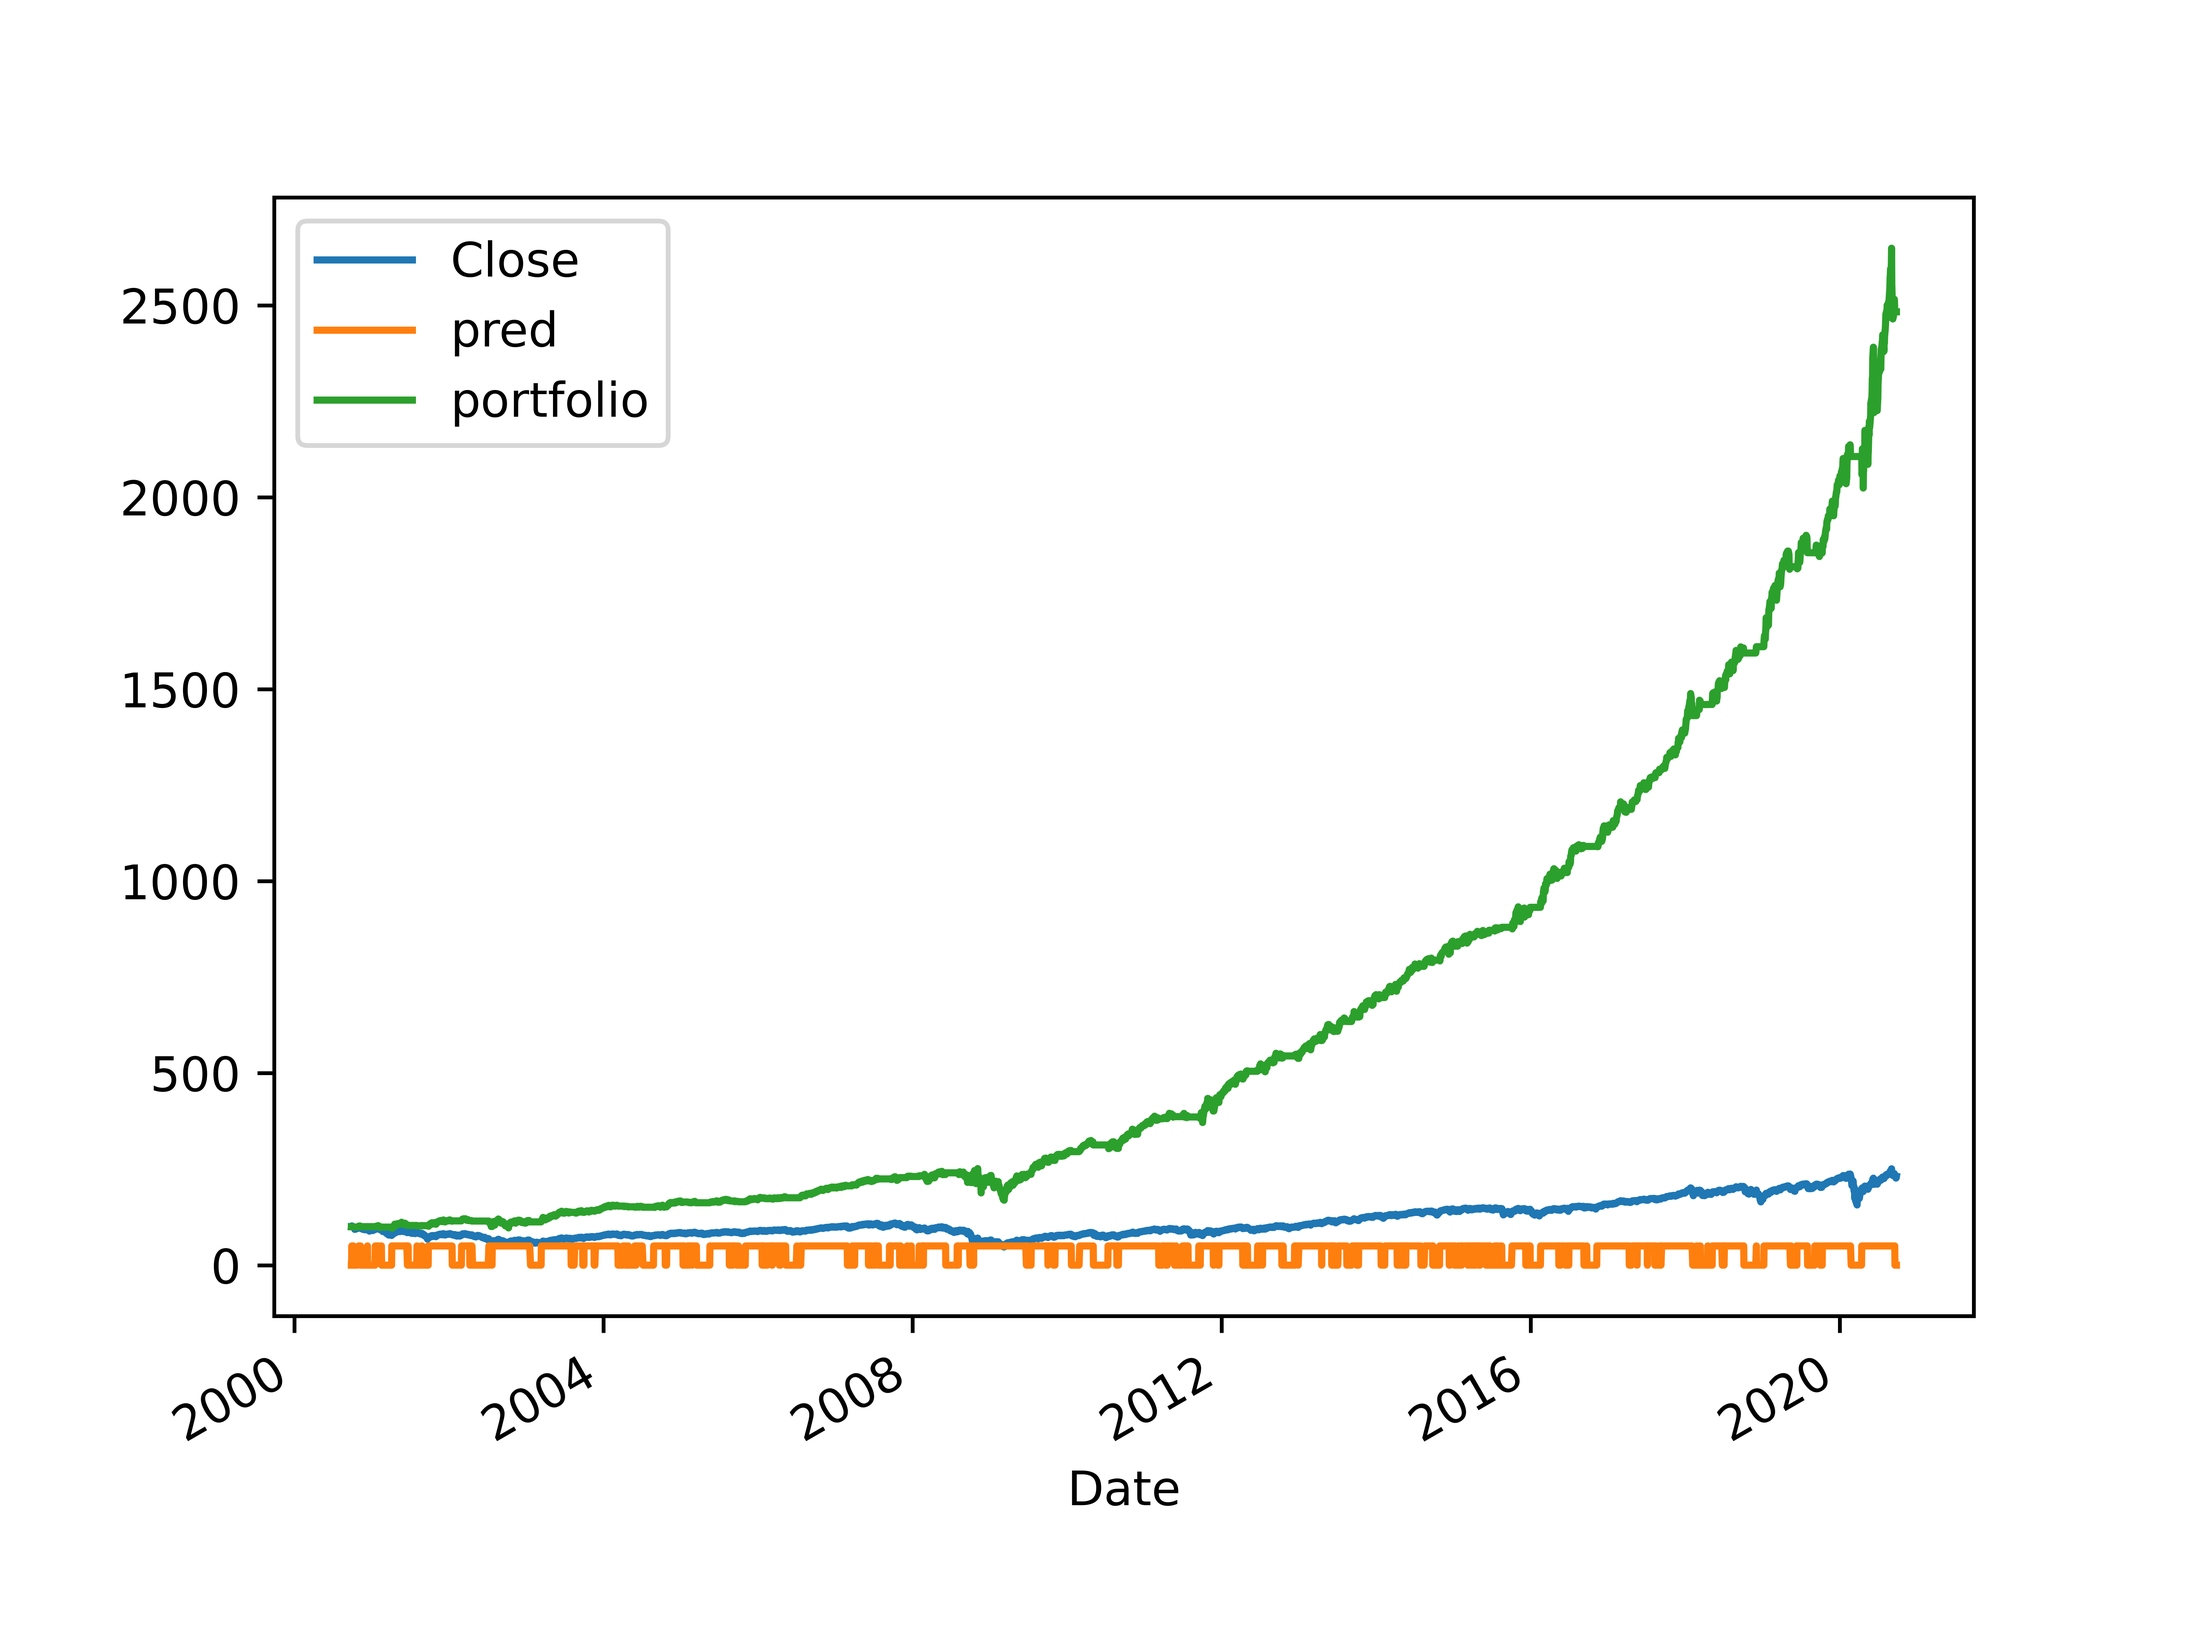
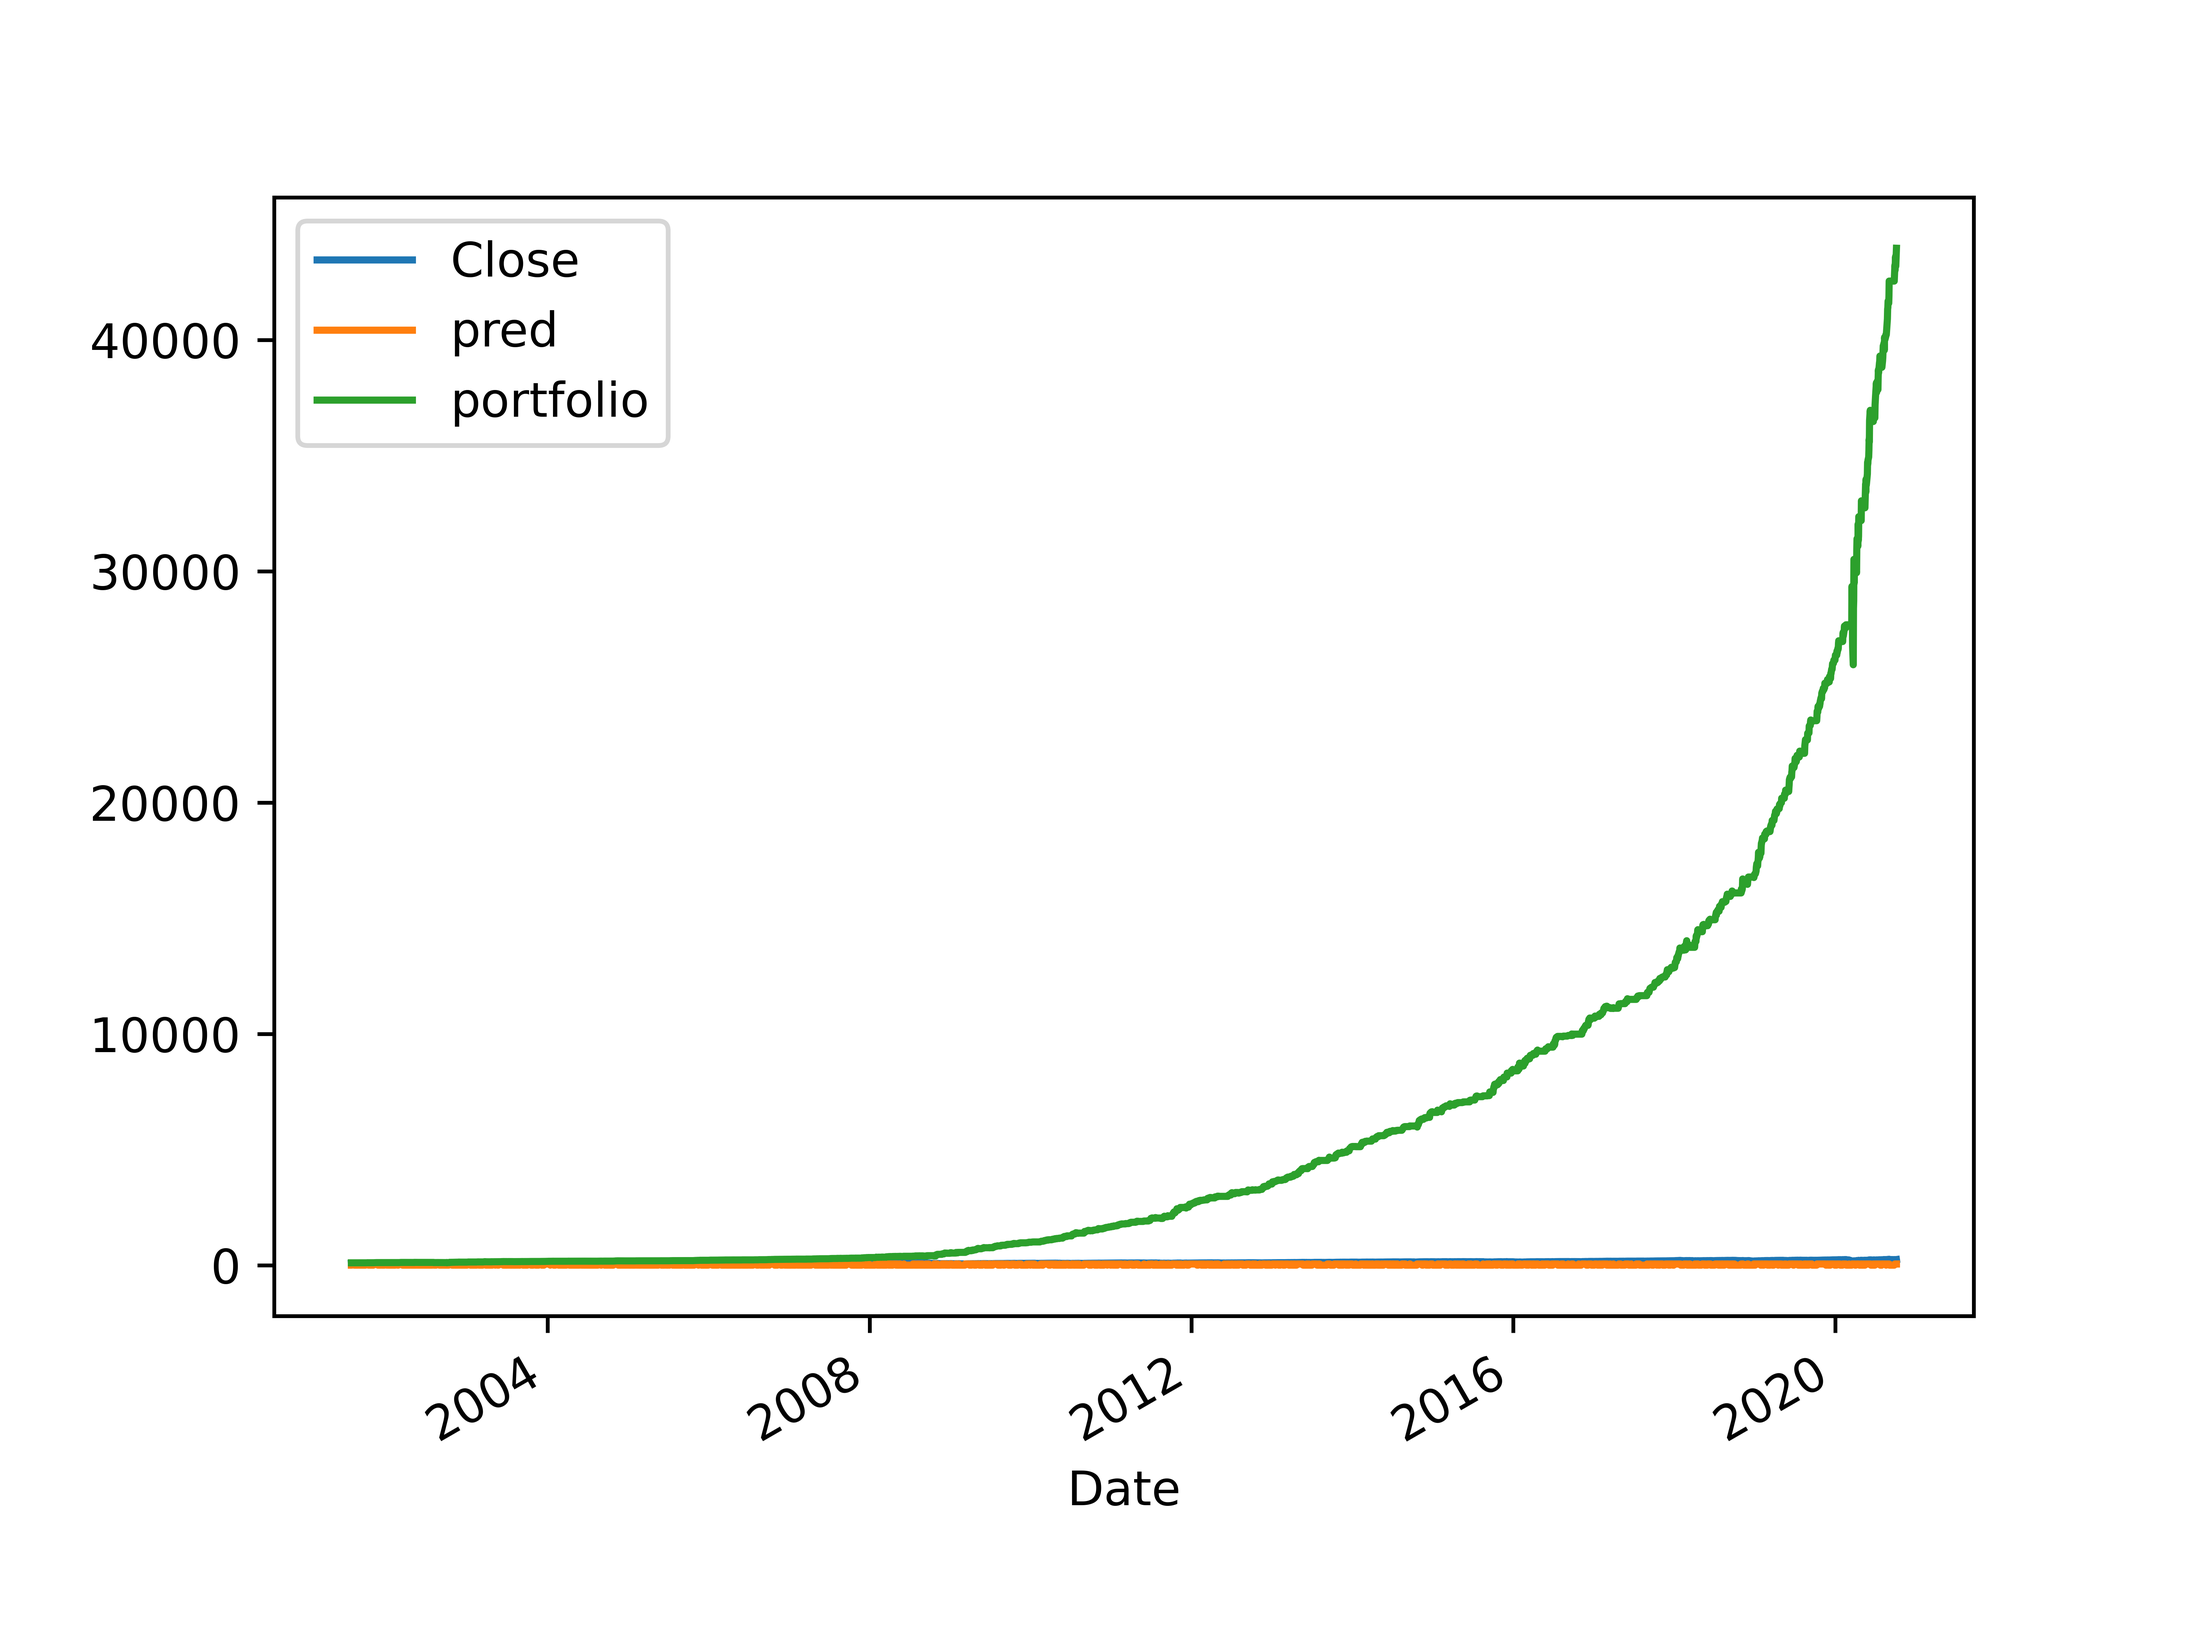
features including Max Drawdown

diff --git a/main.py b/main.py
@@ -1,6 +1,9 @@
 SHORT = False
 useVixAndPE = False
 
+NASDAQ = "^IXIC"
+SP500 = "^GSPC"
+TQQQ = "TQQQ"
 
 class bcolors:
     HEADER = '\033[95m'
@@ -37,21 +40,6 @@ def getDataset(symbol, duration):
 
     closeData = dataset.loc[:, "Close"].to_frame()
     closeData["Close"] = (closeData["Close"] / closeData.loc[:, "Close"][0]) * 100
-    for ma_Duration in [50, 100, 200]:
-        movingAverageDatapoints = []
-        cumulatedResult = []
-        for date, row in closeData.iterrows():
-            # print(cumulatedResult)
-            if len(cumulatedResult) > ma_Duration:
-                cumulatedResult.pop(0)
-            cumulatedResult.append(row["Close"])
-            calc_Result = 0
-            for dataPoint in cumulatedResult:
-                calc_Result = calc_Result + dataPoint
-            calc_Result = calc_Result / len(cumulatedResult)
-            movingAverageDatapoints.append(calc_Result)
-        closeData["sma" + str(ma_Duration)] = movingAverageDatapoints
-
     _dateArray = []
     _monthlyReturns = []
     for date, row in closeData.iterrows():
@@ -66,17 +54,31 @@ def getDataset(symbol, duration):
             _monthlyReturns.append(1)
         else:
             _monthlyReturns.append(0)
-        if len(_dateArray) > 10:
+        if len(_dateArray) > 3:
             _dateArray.pop(0)
         # print(_monthlyReturns)
     closeData["outcome"] = _monthlyReturns
 
-    closeData["50-100"] = closeData["sma50"] - closeData["sma100"]
-    closeData["50-200"] = closeData["sma50"] - closeData["sma200"]
-    closeData["100-200"] = closeData["sma100"] - closeData["sma200"]
-    closeData["spotTo50"] = closeData["Close"] - closeData["sma50"]
-    closeData["spotTo100"] = closeData["Close"] - closeData["sma100"]
-    closeData["spotTo200"] = closeData["Close"] - closeData["sma200"]
+    closeData["SMA10"] = closeData.Close.rolling(10).mean()
+    closeData["SMA20"] = closeData.Close.rolling(20).mean()
+    closeData["SMA30"] = closeData.Close.rolling(30).mean()
+    closeData["SMA50"] = closeData.Close.rolling(50).mean()
+    closeData["SMA100"] = closeData.Close.rolling(100).mean()
+    closeData["SMA200"] = closeData.Close.rolling(200).mean()
+    closeData["50-100"] = closeData["SMA50"] - closeData["SMA100"]
+    closeData["50-200"] = closeData["SMA50"] - closeData["SMA200"]
+    closeData["100-200"] = closeData["SMA100"] - closeData["SMA200"]
+    closeData["spotTo10"] = closeData["Close"] - closeData["SMA10"]
+    closeData["spotTo20"] = closeData["Close"] - closeData["SMA20"]
+    closeData["spotTo30"] = closeData["Close"] - closeData["SMA30"]
+    closeData["spotTo50"] = closeData["Close"] - closeData["SMA50"]
+    closeData["spotTo100"] = closeData["Close"] - closeData["SMA100"]
+    closeData["spotTo200"] = closeData["Close"] - closeData["SMA200"]
+
+    delta = closeData.Close.diff()
+    up, down = delta.copy(), delta.copy()
+    up[up < 0] = 0
+    down[down > 0] = 0
 
     if useVixAndPE:
         peRatioData = quandl.get("MULTPL/SP500_PE_RATIO_MONTH")
@@ -118,46 +120,54 @@ def getDataset(symbol, duration):
         # axs[2].plot(closeData.loc[:, "divYield"], 'tab:green')
         # axs[2].set_title('Dividend Yield')
         fig.show()
+    #closeData.loc[:, ["Close", "SMA10", "SMA20", "SMA30", "SMA50", "SMA100", "SMA200"]].plot()
+    #plt.show()
+    closeData = closeData.iloc[199:,]
+    #print(closeData)
     return closeData
-
-
 from numpy import loadtxt
 from keras.models import Sequential
 from keras.layers import Dense
+import tensorflow as tf
 
 from keras.optimizers import SGD
 
 # split into input (X) and output (y) variables
 # "vix2", "vix3", "vix1-3", "vix2-3", "vix1-2"
-trainingData = getDataset("^GSPC", 5)
+trainingData = getDataset(SP500, 20)
 # trainX = trainingData.loc[:, ["sma50", "sma100", "sma200", "50-100", "50-200", "100-200", "spotTo50", "spotTo100", "spotTo200", "vix1", "peRatio"]].values
-keywords = ["sma50", "sma100", "sma200", "50-100", "50-200", "100-200", "spotTo50", "spotTo100", "spotTo200"]
+keywords = ["SMA10", "SMA20", "SMA30", "SMA50", "SMA100", "SMA200", "50-100", "50-200", "100-200", "spotTo10", "spotTo20", "spotTo30", "spotTo50", "spotTo100", "spotTo200"]
+#keywords = ["SMA50", "SMA100", "SMA200", "50-100", "50-200", "100-200", "spotTo50", "spotTo100", "spotTo200"]
 if useVixAndPE:
-    keywords.append("vix1").append("peRatio")
+    keywords.append("vix1")
+    keywords.append("peRatio")
 trainX = trainingData.loc[:, keywords].values
+#print(trainX)
 trainY = trainingData.loc[:, ["outcome"]].values
 # define the keras model
 model = Sequential()
 
 model.add(Dense(20, input_dim=len(keywords), activation='relu'))
 model.add(Dense(20, activation='relu'))
+
+#model.add(Dense(40, activation='relu'))
+
+#model.add(Dense(40, activation='relu'))
 model.add(Dense(1, activation='sigmoid'))
 # compile the keras model
-opt = SGD(lr=0.01, momentum=0.9)
 model.compile(loss='binary_crossentropy', optimizer='adam', metrics=['accuracy'])
 # fit the keras model on the dataset
-model.fit(trainX, trainY, epochs=5, batch_size=5)
+model.fit(trainX, trainY, epochs=50, batch_size=5, verbose=0)
 # evaluate the keras model
 _, accuracy = model.evaluate(trainX, trainY)
-# print('Accuracy: %.2f' % (accuracy*100))
+print('Accuracy: %.2f' % (accuracy*100))
 
 testingDuration = 20
-testingData = getDataset("^GSPC", testingDuration)
-# testingX = testingData.loc[:, ["sma50", "sma100", "sma200", "50-100", "50-200", "100-200", "spotTo50", "spotTo100", "spotTo200", "vix1", "peRatio"]].values
-testingX = testingData.loc[:,
-           ["sma50", "sma100", "sma200", "50-100", "50-200", "100-200", "spotTo50", "spotTo100", "spotTo200"]].values
+testingData = getDataset(SP500, testingDuration)
+#testingX = testingData.loc[:, ["sma50", "sma100", "sma200", "50-100", "50-200", "100-200", "spotTo50", "spotTo100", "spotTo200", "vix1", "peRatio"]].values
+testingX = testingData.loc[:, keywords].values
 predictions = model.predict_classes(testingX)
-print(testingX[len(testingX) - 1])
+#print(testingX[len(testingX) - 1])
 
 # print(predictions)
 testingGraph = testingData.loc[:, "Close"].to_frame()
@@ -181,11 +191,12 @@ for date, row in testingGraph.iterrows():
     if row["pred"] != 0:
         dailyReturn = row["Close"] / lastPrice
         if not wasLongLastTime:
-            currentValue = (currentValue * dailyReturn) * 0,99
+            currentValue = ((currentValue - 1) * dailyReturn)
+            current2XValue = (current2XValue - 1) * (((dailyReturn - 1) * 2) + 1)
         else:
             currentValue = (currentValue * dailyReturn)
+            current2XValue = current2XValue * (((dailyReturn - 1) * 2) + 1)
         wasLongLastTime = True
-        current2XValue = current2XValue * (((dailyReturn - 1) * 2) + 1)
         # print(currentValue)
         portfolioValues.append(currentValue)
         portfolioValues2X.append(current2XValue)
@@ -210,22 +221,25 @@ testingGraph["portfolio"] = portfolioValues
 # print(finalGraph)
 
 # absolute Return calculation
+decimalNumYear = len(testingData.index) / 365
 underlyingStartingPrice = testingData.loc[:, "Close"][0]
 underlyingLastPrice = testingData.loc[:, "Close"][len(testingData.loc[:, "Close"]) - 1]
-underlyingReturns = (pow(underlyingLastPrice / underlyingStartingPrice, 1 / (testingDuration)) - 1) * 100
+underlyingReturns = (pow(underlyingLastPrice / underlyingStartingPrice, 1 / (decimalNumYear)) - 1) * 100
 # print(underlyingReturns)
-print(f'{bcolors.OKBLUE}Annual returns for Underlying: %.2f' % underlyingReturns + "%")
+print()
+print(f'{bcolors.BOLD}Annual returns for Underlying:                            %.2f' % underlyingReturns + "%")
 
 portfolioStartingPrice = 100
 portfolioLastPrice = portfolioValues[len(portfolioValues) - 1]
-portfolioReturns = (pow(portfolioLastPrice / portfolioStartingPrice, 1 / (testingDuration)) - 1) * 100
+portfolioReturns = (pow(portfolioLastPrice / portfolioStartingPrice, 1 / (decimalNumYear)) - 1) * 100
+#print("Portfolio current value: " + str(portfolioLastPrice))
 # print(portfolioReturns)
-print('Annual returns for Portfolio: %.2f' % portfolioReturns + "%")
+print('Annual returns for Portfolio:                            %.2f' % portfolioReturns + "%")
 
 portfolio2XLastPrice = portfolioValues2X[len(portfolioValues2X) - 1]
-portfolio2XReturns = (pow(portfolio2XLastPrice / portfolioStartingPrice, 1 / (testingDuration)) - 1) * 100
+portfolio2XReturns = (pow(portfolio2XLastPrice / portfolioStartingPrice, 1 / (decimalNumYear)) - 1) * 100
 # print(portfolioReturns)
-print('Annual returns for 2 times leveraged Portfolio: %.2f' % portfolio2XReturns + f"%{bcolors.ENDC}")
+print('Annual returns for 2 times leveraged Portfolio:          %.2f' % portfolio2XReturns + "%")
 
 lastPrediction = 0
 changeCounter = 0
@@ -233,7 +247,43 @@ for i in predictions:
     if i != lastPrediction:
         changeCounter = changeCounter + 1
         lastPrediction = i
-print("Number of decision changes: " + str(changeCounter))
+print()
+print("Number of decision changes per year:                      " + str(int(changeCounter/decimalNumYear)))
+print()
+#Calculate Max Drawdown
+#analyze array: portfolioValues
+def calculateDrawdown(valuesArray):
+    maxDrawdown = 0
+    maxDrawdownDays = 0
+    for i in range(0, len(valuesArray)):
+        _startingValue = valuesArray[i]
+        _subArray = valuesArray[i:]
+        _maxDrawdownDays = 0
+        _maxDrawdown = 0
+        for _i in range(0, len(_subArray)):
+            _currentValue = _subArray[_i]
+            if _currentValue < _startingValue:
+                _drawdownPercent = -((_currentValue - _startingValue)/_startingValue)*100
+                if _drawdownPercent > _maxDrawdown:
+                    _maxDrawdown = _drawdownPercent
+                _maxDrawdownDays = _i + 1
+        if _maxDrawdown > maxDrawdown:
+            maxDrawdown = _maxDrawdown
+        if _maxDrawdownDays > maxDrawdownDays:
+            maxDrawdownDays = _maxDrawdownDays
+    return round(maxDrawdown, 0), maxDrawdownDays
+
+percentage, days = calculateDrawdown(testingData.loc[:, "Close"])
+print("Max Drawdown Stats for Underlying:")
+print("Worst Drawdown: " + str(percentage) + "%, longest Drawdown: " + str(days) + " days")
+print()
+percentage, days = calculateDrawdown(portfolioValues)
+print("Max Drawdown Stats for Portfolio:")
+print("Worst Drawdown: " + str(percentage) + "%, longest Drawdown: " + str(days) + " days")
+print()
+percentage, days = calculateDrawdown(portfolioValues2X)
+print("Max Drawdown Stats for 2x leveraged Portfolio:")
+print("Worst Drawdown: " + str(percentage) + "%, longest Drawdown: " + str(days) + " days"+ f"%{bcolors.ENDC}")
 # testingFig, testingAxes = plt.subplots(2)
 #
 # testingAxes[0].plot(testingGraph.loc[:, ["portfolio"]], 'tab:blue', linewidth=0.3)
